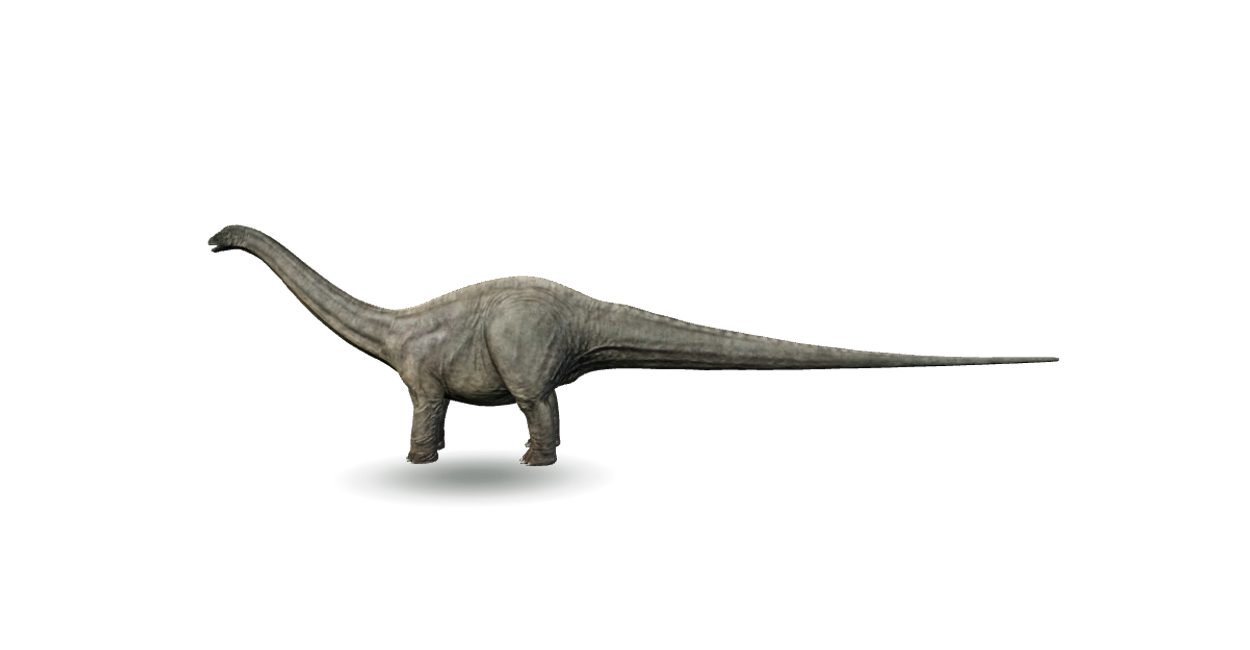
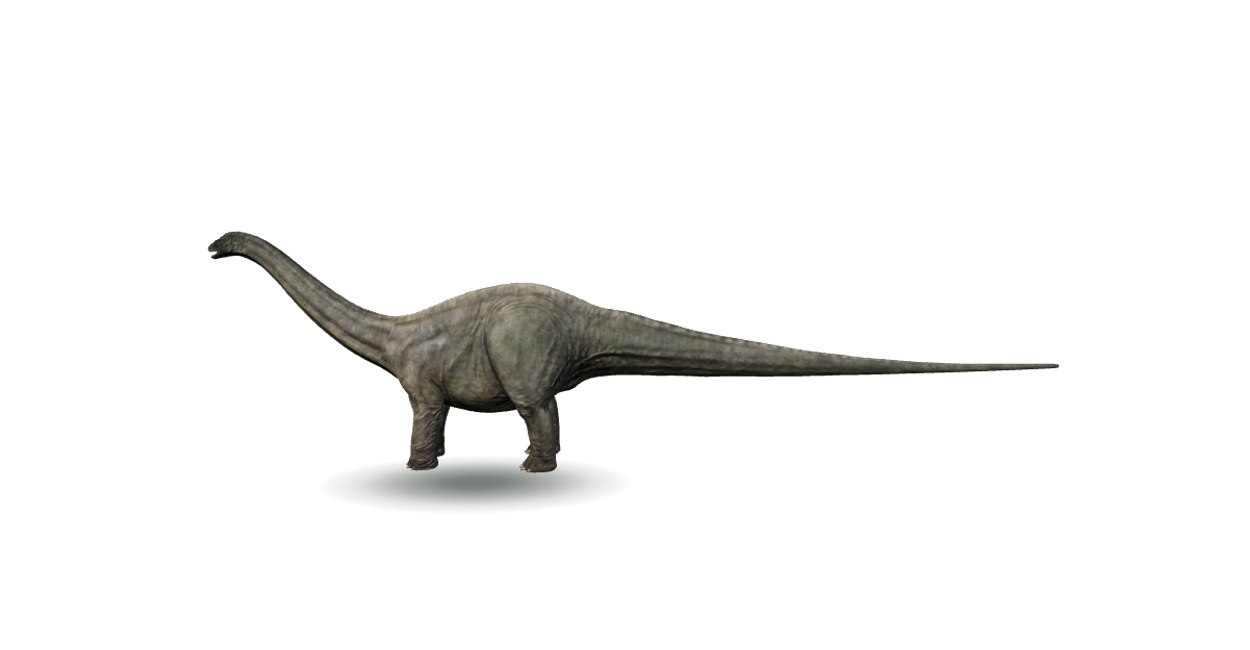
fix: raise and brighten dinosaur habitats

Changed region(s): [[0.156, 0.3385, 0.8424, 0.8]]

diff --git a/src/content/provenance-helpers.ts b/src/content/provenance-helpers.ts
@@ -31,26 +31,26 @@ const sharedBackgroundPrompt =
 const habitatBackgroundPrompt =
   'Refined layered paper-cut picture-book art with soft gouache texture, tactile matte paper, and shallow soft shadows; an empty scientifically era-appropriate habitat behind a full-body 3D animal; quiet central safe area; no animal, person, text, UI, logo, watermark, photorealism, or baked-in particles because CSS supplies the atmosphere.'
 
-const naturalisticBackgroundPrompt =
-  'Photorealistic natural-history environment plate with believable atmospheric depth, soft cloud-filtered daylight from high camera-left, physically plausible soil and vegetation, and a quiet continuous staging plane behind a live full-body 3D animal. Keep ground detail broad, sparse, and true to real-world scale; no all-over cracks, pebble carpet, dense dots, repeated cellular texture, animal, person, footprint, bone, text, UI, logo, watermark, platform, or baked-in shadow.'
+const brightChildBackgroundPrompt =
+  'Bright premium semi-realistic children\'s natural-history illustration, using the approved Stegosaurus habitat as the composition and tonal reference: a high vegetation-to-ground boundary, abundant tall plants framing the sides, pale blue cloud-filtered daylight, and a continuous calm ground plane behind a live full-body 3D animal. No dark or gloomy lighting, low horizon, plant-covered foot band, all-over cracks, pebble carpet, dense dots, repeated cellular texture, animal, person, footprint, bone, text, UI, logo, watermark, platform, or baked-in shadow.'
 
 export const reviewedBackgroundSources = {
   apatosaurus: {
     landscape: {
-      title: 'Apatosaurus Morrison floodplain — landscape',
+      title: 'Apatosaurus bright Morrison gallery forest — landscape',
       generatedOn: '2026-08-09',
-      prompt: `${naturalisticBackgroundPrompt} True 16:9 Late-Jurassic Morrison Formation floodplain after the wet season, with smooth compacted warm-gray sandy loam, sparse low plants, distant subdued mesas, and a low conifer, cycad, and tree-fern line. Keep the horizon near 41% and the central 44–76% as uninterrupted level ground; the feet meet near 64%. Match a cool charcoal-gray and muted-olive Apatosaurus without a yellow-orange wash.`,
-      bytes: 2_190_064,
+      prompt: `${brightChildBackgroundPrompt} True 16:9 Late-Jurassic Morrison river-corridor clearing with towering araucarian-like conifers and ginkgoes, tree ferns, cycads, fern beds, and horsetails. Keep the vegetation-to-ground boundary between 42–45%, begin uninterrupted level ground by 45%, and keep the 51–65% foot band clear for a cool gray-olive Apatosaurus.`,
+      bytes: 2_809_612,
       sha256:
[2 lines of base64/hex data omitted]
     },
     portrait: {
-      title: 'Apatosaurus Morrison floodplain — portrait',
+      title: 'Apatosaurus bright Morrison gallery forest — portrait',
       generatedOn: '2026-08-09',
-      prompt: `${naturalisticBackgroundPrompt} Separately compose a 9:16 Morrison Formation alluvial terrace with smooth warm-gray sandy loam, sparse edge vegetation, distant gray-mauve bluffs, and a low misty conifer, cycad, and tree-fern line. Keep the horizon near 41%, continuous ground from 43–88%, and the 61–64% foot band level and unobstructed. Match a huge cool gray-olive Apatosaurus without a narrowing road or saturated desert color.`,
-      bytes: 2_136_494,
+      prompt: `${brightChildBackgroundPrompt} Separately compose a 9:16 Late-Jurassic Morrison gallery-forest clearing with very tall araucarian-like conifers, ginkgoes, tree ferns, cycads, ferns, and horsetails. Keep the vegetation-to-ground boundary between 41–45%, begin uninterrupted level ground by 45%, and keep the 52–68% centred foot band completely clear.`,
+      bytes: 2_593_061,
       sha256:
[2 lines of base64/hex data omitted]
     },
   },
   gigantoraptor: {
@@ -223,20 +223,20 @@ export const reviewedBackgroundSources = {
   },
   tyrannosaurusRex: {
     landscape: {
-      title: 'Tyrannosaurus wooded floodplain — landscape',
+      title: 'Tyrannosaurus bright Hell Creek woodland — landscape',
       generatedOn: '2026-08-09',
-      prompt: `${naturalisticBackgroundPrompt} True 16:9 Late-Cretaceous humid conifer-and-fern forest-edge floodplain with smooth compacted brown-gray silt, sparse leaf litter, and misty cool-green depth. Keep the horizon near 42% and the central 45–76% as uninterrupted gently level ground; the feet meet near 63%. Use neutral sky fill and restrained earth bounce so a warm rust-brown Tyrannosaurus belongs in the light while remaining visible.`,
-      bytes: 2_417_533,
+      prompt: `${brightChildBackgroundPrompt} True 16:9 late-Maastrichtian Hell Creek riverbank woodland with irregular broadleaf trees, some tall swamp conifers, ferns, shrubs, and wetland plants. Keep the vegetation-to-ground boundary between 43–46%, begin uninterrupted level ground by 46%, and keep the 52–65% foot band clear for a warm rust-brown Tyrannosaurus.`,
+      bytes: 2_969_995,
       sha256:
[2 lines of base64/hex data omitted]
     },
     portrait: {
-      title: 'Tyrannosaurus wooded floodplain — portrait',
+      title: 'Tyrannosaurus bright Hell Creek woodland — portrait',
       generatedOn: '2026-08-09',
-      prompt: `${naturalisticBackgroundPrompt} Separately compose a 9:16 humid Late-Cretaceous forest-edge floodplain with smooth compacted brown-gray silt, layered conifers and ferns, and cool atmospheric haze. Keep the horizon near 40%, the central 43–72% open and level, and the 61% foot band unobstructed, with calm top and bottom zones for the interface. Match the warm rust-brown Tyrannosaurus without orange cast or dense central foliage.`,
-      bytes: 2_240_079,
+      prompt: `${brightChildBackgroundPrompt} Separately compose a 9:16 late-Maastrichtian Hell Creek riverbank woodland with bright layered broadleaf trees, some swamp conifers, ferns, shrubs, and wetland plants. Keep the vegetation-to-ground boundary between 42–46%, begin uninterrupted level ground by 46%, and keep the 53–68% centred foot band completely clear.`,
+      bytes: 2_788_568,
       sha256:
[2 lines of base64/hex data omitted]
     },
   },
 } as const satisfies Readonly<

diff --git a/src/content/credits.generated.ts b/src/content/credits.generated.ts
@@ -37,7 +37,7 @@ export const credits = [
     "animalId": "apatosaurus",
     "assetPath": "backgrounds/landscape.webp",
     "assetKind": "background",
-    "sourceTitle": "Apatosaurus Morrison floodplain — landscape",
+    "sourceTitle": "Apatosaurus bright Morrison gallery forest — landscape",
     "author": "OpenAI built-in image_gen",
     "licenseName": "CC BY-NC-SA 4.0 project-owned ImageGen output",
     "licenseUrl": "https://creativecommons.org/licenses/by-nc-sa/4.0/",
@@ -52,7 +52,7 @@ export const credits = [
     "animalId": "apatosaurus",
     "assetPath": "backgrounds/portrait.webp",
     "assetKind": "background",
-    "sourceTitle": "Apatosaurus Morrison floodplain — portrait",
+    "sourceTitle": "Apatosaurus bright Morrison gallery forest — portrait",
     "author": "OpenAI built-in image_gen",
     "licenseName": "CC BY-NC-SA 4.0 project-owned ImageGen output",
     "licenseUrl": "https://creativecommons.org/licenses/by-nc-sa/4.0/",
@@ -2155,7 +2155,7 @@ export const credits = [
     "animalId": "tyrannosaurus-rex",
     "assetPath": "backgrounds/landscape.webp",
     "assetKind": "background",
-    "sourceTitle": "Tyrannosaurus wooded floodplain — landscape",
+    "sourceTitle": "Tyrannosaurus bright Hell Creek woodland — landscape",
     "author": "OpenAI built-in image_gen",
     "licenseName": "CC BY-NC-SA 4.0 project-owned ImageGen output",
     "licenseUrl": "https://creativecommons.org/licenses/by-nc-sa/4.0/",
@@ -2170,7 +2170,7 @@ export const credits = [
     "animalId": "tyrannosaurus-rex",
     "assetPath": "backgrounds/portrait.webp",
     "assetKind": "background",
-    "sourceTitle": "Tyrannosaurus wooded floodplain — portrait",
+    "sourceTitle": "Tyrannosaurus bright Hell Creek woodland — portrait",
     "author": "OpenAI built-in image_gen",
     "licenseName": "CC BY-NC-SA 4.0 project-owned ImageGen output",
     "licenseUrl": "https://creativecommons.org/licenses/by-nc-sa/4.0/",

diff --git a/src/content/animals/tyrannosaurus-rex/provenance.ts b/src/content/animals/tyrannosaurus-rex/provenance.ts
@@ -41,17 +41,17 @@ const baseProvenance = createPublishedAssetProvenance({
     landscape: {
       source: reviewedBackgroundSources.tyrannosaurusRex.landscape,
       runtime: {
-        bytes: 190_444,
+        bytes: 327_102,
         sha256:
[2 lines of base64/hex data omitted]
       },
     },
     portrait: {
       source: reviewedBackgroundSources.tyrannosaurusRex.portrait,
       runtime: {
-        bytes: 164_330,
+        bytes: 284_798,
         sha256:
[2 lines of base64/hex data omitted]
       },
     },
   },
@@ -66,9 +66,9 @@ const baseProvenance = createPublishedAssetProvenance({
[1 lines of base64/hex data omitted]
   },
   thumbnail: {
-    bytes: 12_774,
+    bytes: 25_592,
     sha256:
[2 lines of base64/hex data omitted]
   },
   narration: {
     generatedOn: '2026-07-28',

diff --git a/src/content/animals/apatosaurus/provenance.ts b/src/content/animals/apatosaurus/provenance.ts
@@ -37,17 +37,17 @@ const baseProvenance = createPublishedAssetProvenance({
     landscape: {
       source: reviewedBackgroundSources.apatosaurus.landscape,
       runtime: {
-        bytes: 157_522,
+        bytes: 288_162,
         sha256:
[2 lines of base64/hex data omitted]
       },
     },
     portrait: {
       source: reviewedBackgroundSources.apatosaurus.portrait,
       runtime: {
-        bytes: 135_960,
+        bytes: 243_128,
         sha256:
[2 lines of base64/hex data omitted]
       },
     },
   },
@@ -62,9 +62,9 @@ const baseProvenance = createPublishedAssetProvenance({
[1 lines of base64/hex data omitted]
   },
   thumbnail: {
-    bytes: 12_242,
+    bytes: 21_368,
     sha256:
[2 lines of base64/hex data omitted]
   },
   narration: {
     generatedOn: '2026-07-28',

diff --git a/src/components/ForestAtmosphere.tsx b/src/components/ForestAtmosphere.tsx
@@ -2,17 +2,25 @@ const dustCount = 12
 const leafCount = 4
 
 /**
- * Forest light is the richest land treatment, but the bounded particle count
- * keeps it calm and leaves the Three.js model unobstructed.
+ * Forest air keeps a little drifting life while diffuse-light habitats can
+ * suppress the optional decorative beams authored for sunnier exhibits.
  */
-export function ForestAtmosphere() {
+export function ForestAtmosphere({
+  diffuseLight = false,
+}: {
+  readonly diffuseLight?: boolean
+}) {
   return (
     <div
       aria-hidden="true"
       className="scene-atmosphere forest-atmosphere"
     >
-      <span className="forest-sunbeam forest-sunbeam--wide" />
-      <span className="forest-sunbeam forest-sunbeam--narrow" />
+      {diffuseLight ? null : (
+        <>
+          <span className="forest-sunbeam forest-sunbeam--wide" />
+          <span className="forest-sunbeam forest-sunbeam--narrow" />
+        </>
+      )}
       <span className="forest-dust">
         {Array.from({ length: dustCount }, (_, index) => (
           <span

diff --git a/src/content/animals/apatosaurus/package.ts b/src/content/animals/apatosaurus/package.ts
@@ -11,18 +11,18 @@ export const animalDefinition = definePublishedAnimal({
   atmosphere: 'plains',
   content: { 'zh-CN': zhCN, en },
   presentation: {
-    cameraLightScale: 1.3,
+    cameraLightScale: 1.05,
     initialYawDegrees: 0,
     landscapeHorizontalOffset: 0.01,
-    landscapeVerticalOffset: 0.025,
-    portraitVerticalOffset: 0.04,
+    landscapeVerticalOffset: 0.035,
+    portraitVerticalOffset: 0.05,
     safeAreaPadding: 0.12,
     shadow: 'ground',
     shadowDepthScale: 0.9,
     shadowHorizontalOffset: -0.62,
-    shadowOpacity: 0.46,
-    shadowScale: 0.34,
-    toneMappingExposure: 1.35,
+    shadowOpacity: 0.56,
+    shadowScale: 0.38,
+    toneMappingExposure: 1.28,
   },
   animation: {
     clip: 'Idle',

diff --git a/src/review/animals/apatosaurus/package.ts b/src/review/animals/apatosaurus/package.ts
@@ -12,18 +12,18 @@ export const animal = {
     'zh-CN': zhCN,
   },
   presentation: {
-    cameraLightScale: 1.3,
+    cameraLightScale: 1.05,
     initialYawDegrees: 0,
     landscapeHorizontalOffset: 0.01,
-    landscapeVerticalOffset: 0.025,
-    portraitVerticalOffset: 0.04,
+    landscapeVerticalOffset: 0.035,
+    portraitVerticalOffset: 0.05,
     safeAreaPadding: 0.12,
     shadow: 'ground',
     shadowDepthScale: 0.9,
     shadowHorizontalOffset: -0.62,
-    shadowOpacity: 0.46,
-    shadowScale: 0.34,
-    toneMappingExposure: 1.35,
+    shadowOpacity: 0.56,
+    shadowScale: 0.38,
+    toneMappingExposure: 1.28,
   },
   animation: {
     clip: 'Idle',

diff --git a/tests/viewer.test.ts b/tests/viewer.test.ts
@@ -275,7 +275,7 @@ describe('model bounds and contact shadow', () => {
   it('places the Apatosaurus shadow under its four-foot cluster', () => {
     const layout = computeContactShadowLayout(
       new Vector3(3.2, 0.882, 0.432),
-      0.34,
+      0.38,
       {
         depthScale: 0.9,
         horizontalOffset: -0.62,
@@ -283,7 +283,7 @@ describe('model bounds and contact shadow', () => {
     )
 
     expect(layout.position.toArray()).toEqual([-0.62, 0.006, 0])
-    expect(layout.scale.x).toBeCloseTo(1.088)
+    expect(layout.scale.x).toBeCloseTo(1.216)
     expect(layout.scale.y).toBeCloseTo(0.3888)
     expect(layout.scale.z).toBe(1)
   })

diff --git a/tests/SceneAtmosphere.test.tsx b/tests/SceneAtmosphere.test.tsx
@@ -29,6 +29,14 @@ describe('SceneAtmosphere', () => {
     )
     expect(container.querySelectorAll('.forest-leaf')).toHaveLength(4)
 
+    rerender(
+      <SceneAtmosphere diffuseForestLight kind="forest" />,
+    )
+    expect(container.querySelectorAll('.forest-sunbeam')).toHaveLength(0)
+    expect(container.querySelectorAll('.forest-dust-particle')).toHaveLength(
+      12,
+    )
+
     rerender(<SceneAtmosphere kind="plains" />)
     expect(container.querySelectorAll('.scene-atmosphere')).toHaveLength(1)
     expect(container.querySelectorAll('.plains-seed')).toHaveLength(10)

diff --git a/src/components/SceneAtmosphere.tsx b/src/components/SceneAtmosphere.tsx
@@ -6,15 +6,17 @@ import { PlainsAtmosphere } from './PlainsAtmosphere'
 import { UnderwaterAtmosphere } from './UnderwaterAtmosphere'
 
 export function SceneAtmosphere({
+  diffuseForestLight = false,
   kind,
 }: {
+  readonly diffuseForestLight?: boolean
   readonly kind: AtmosphereKind
 }) {
   switch (kind) {
     case 'air':
       return <AirAtmosphere />
     case 'forest':
-      return <ForestAtmosphere />
+      return <ForestAtmosphere diffuseLight={diffuseForestLight} />
     case 'ice':
       return <IceAtmosphere />
     case 'plains':

diff --git a/tests/review-catalog.test.ts b/tests/review-catalog.test.ts
@@ -657,11 +657,15 @@ describe('local collection review catalog', () => {
     )
 
     expect(apatosaurus?.presentation).toMatchObject({
+      cameraLightScale: 1.05,
+      landscapeVerticalOffset: 0.035,
+      portraitVerticalOffset: 0.05,
       shadow: 'ground',
       shadowDepthScale: 0.9,
       shadowHorizontalOffset: -0.62,
-      shadowOpacity: 0.46,
-      shadowScale: 0.34,
+      shadowOpacity: 0.56,
+      shadowScale: 0.38,
+      toneMappingExposure: 1.28,
     })
   })
 

diff --git a/src/content/animals/tyrannosaurus-rex/package.ts b/src/content/animals/tyrannosaurus-rex/package.ts
@@ -11,11 +11,11 @@ export const animalDefinition = definePublishedAnimal({
   atmosphere: 'forest',
   content: { 'zh-CN': zhCN, en },
   presentation: {
-    cameraLightScale: 1.3,
+    cameraLightScale: 0.95,
     initialYawDegrees: -90,
     safeAreaPadding: 0.12,
     shadow: 'ground',
-    toneMappingExposure: 1.12,
+    toneMappingExposure: 1.15,
   },
   animation: {
     clip: 'Idle',
